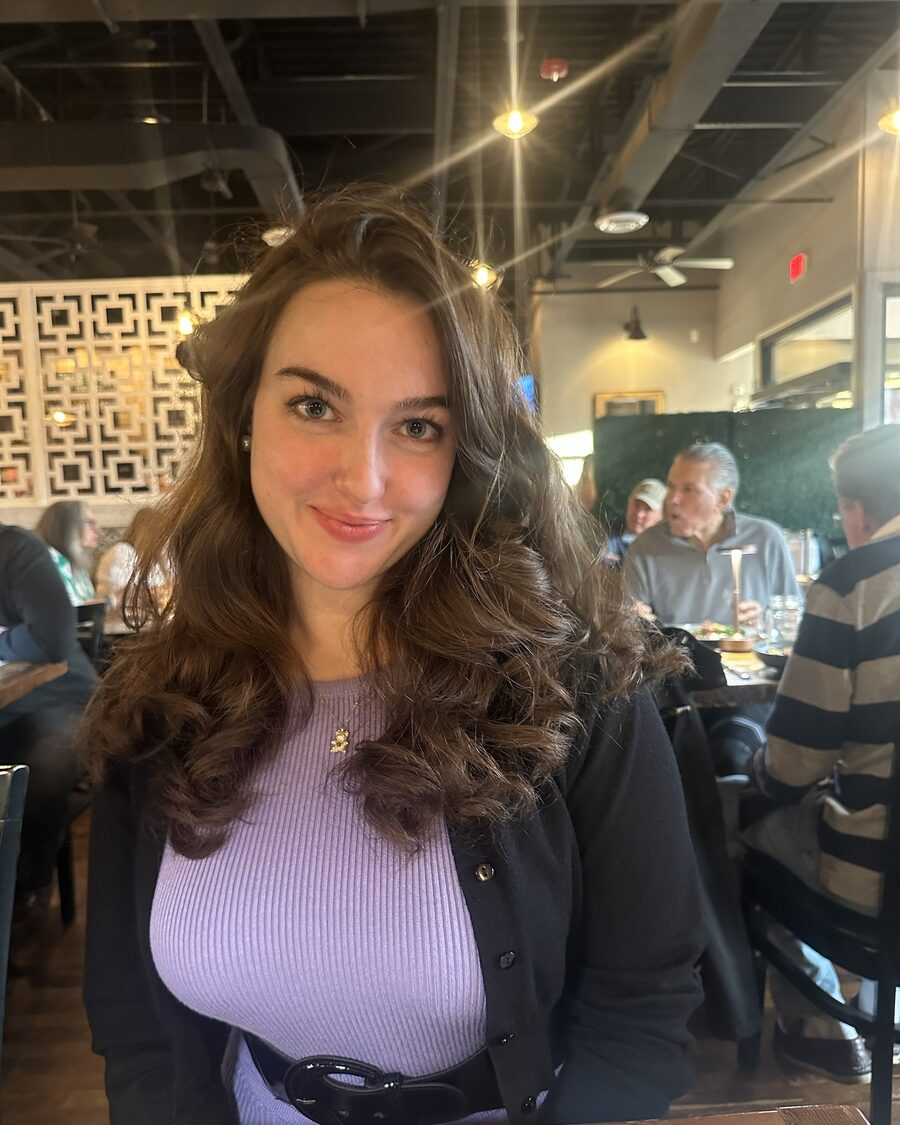
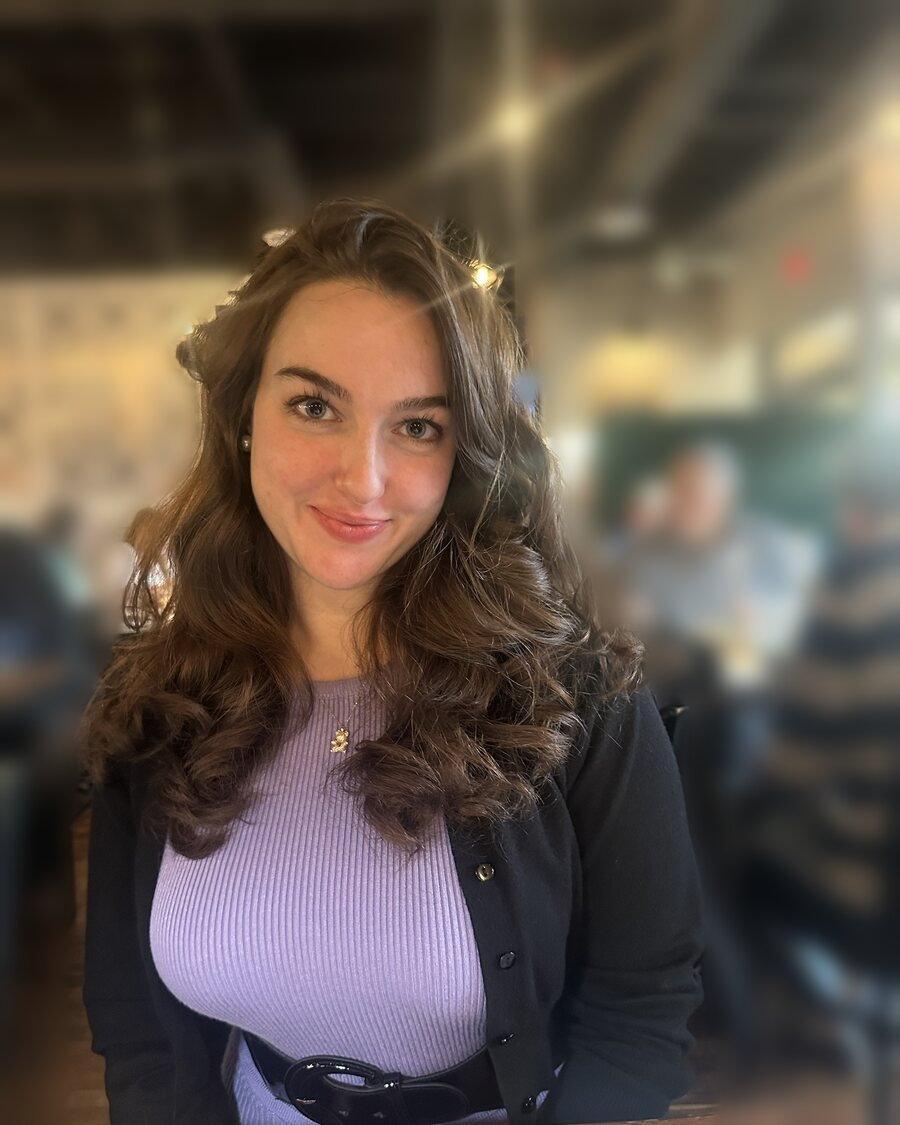
Add 100 body reminders, a plated chicken image and a portrait-blur photo
- Healthy Living: 100 natural reminders for the body in ten groups, with
  filters, a "give me one" button and one-tap adding to the daily checklist
- Chicken breast page shows a drawn plate of grilled chicken instead of
  Wikipedia's raw whole bird; images/foods/ now accepts your own photos
- About page: Amanda's photo now has a softly blurred background

Claude-Session: https://claude.ai/code/session_01ERn1Ugmrw1YbAuYjASvEeU

diff --git a/js/content.js b/js/content.js
@@ -150,3 +150,113 @@ const ARTICLES = [
     ]
   }
 ];
+
+// 100 natural reminders for the body, in ten groups of ten (shown on the Healthy Living page).
+const BODY_REMINDER_GROUPS = {
+  water: { label: "Water", icon: "drop" }, nourish: { label: "Nourish", icon: "apple" }, move: { label: "Move", icon: "sun" },
+  breathe: { label: "Breathe", icon: "leaf" }, rest: { label: "Rest & sleep", icon: "moon" }, outdoors: { label: "Sunlight & fresh air", icon: "sunrise" },
+  posture: { label: "Posture & stretching", icon: "sparkle" }, care: { label: "Body care", icon: "shield" }, mind: { label: "Mind & stress", icon: "heart" },
+  spirit: { label: "Gratitude & spirit", icon: "flower" }
+};
+const BODY_REMINDERS = [
+  ["water", "Drink a glass of water when you wake up — your body has gone hours without any."],
+  ["water", "Keep a water bottle where you can see it; you'll drink more without trying."],
+  ["water", "Pale yellow urine is a simple sign you're drinking enough."],
+  ["water", "Feeling tired or headachy? Try a glass of water first."],
+  ["water", "Drink a glass of water with every meal."],
+  ["water", "Add lemon, cucumber or mint if plain water feels boring."],
+  ["water", "Sip water before, during and after exercise."],
+  ["water", "Thirst can feel like hunger — have a drink before reaching for a snack."],
+  ["water", "Herbal teas and water-rich foods like watermelon and cucumber count toward your fluids."],
+  ["water", "Drink a little extra on hot days and when you're unwell."],
+  ["nourish", "Fill half your plate with vegetables and fruit."],
+  ["nourish", "Include a source of protein at every meal to stay full longer."],
+  ["nourish", "Eat the rainbow — different colors bring different nutrients."],
+  ["nourish", "Choose whole grains like oats and brown rice over refined ones most of the time."],
+  ["nourish", "Slow down and chew well — digestion starts in the mouth."],
+  ["nourish", "Stop eating when you're comfortably satisfied, not stuffed."],
+  ["nourish", "Keep fruit on the counter for an easy, naturally sweet snack."],
+  ["nourish", "Check labels for added sugar — less is better."],
+  ["nourish", "Add a small handful of nuts or seeds for healthy fats."],
+  ["nourish", "Cook one simple meal at home today."],
+  ["move", "Stand up and move for a few minutes every hour you sit."],
+  ["move", "Take a 10-minute walk after a meal."],
+  ["move", "Take the stairs when you can."],
+  ["move", "Aim for about 150 minutes of moderate activity each week — that's 30 minutes, 5 days."],
+  ["move", "Do some strength exercises twice a week — strong muscles support your bones and balance."],
+  ["move", "Dance to one song you love."],
+  ["move", "Walk while you talk on the phone."],
+  ["move", "Park a little farther away and enjoy the extra steps."],
+  ["move", "Play — chase the kids, throw a ball, garden. Movement doesn't have to be a workout."],
+  ["move", "Balance on one foot while you brush your teeth to build steadiness."],
+  ["breathe", "Take three slow, deep breaths before you answer a stressful message."],
+  ["breathe", "Breathe in through your nose — it warms and filters the air."],
+  ["breathe", "Let your out-breath be a little longer than your in-breath to help your body relax."],
+  ["breathe", "Notice if you're holding your breath — then let it go."],
+  ["breathe", "Try box breathing: in for 4, hold for 4, out for 4, hold for 4."],
+  ["breathe", "Open a window and let fresh air in for a few minutes."],
+  ["breathe", "Relax your jaw and drop your shoulders as you breathe out."],
+  ["breathe", "Take a one-minute breathing break between tasks."],
+  ["breathe", "Sing or hum — it naturally slows your breathing."],
+  ["breathe", "Breathe slowly and deeply as you lie down to sleep."],
+  ["rest", "Go to bed and wake up at about the same time every day, even on weekends."],
+  ["rest", "Aim for 7–9 hours of sleep most nights."],
+  ["rest", "Put screens away 30–60 minutes before bed."],
+  ["rest", "Keep your bedroom cool, dark and quiet."],
+  ["rest", "Enjoy caffeine early in the day, not in the afternoon or evening."],
+  ["rest", "A short nap of 20 minutes or less can refresh you without spoiling night sleep."],
+  ["rest", "Write tomorrow's to-do list before bed so your mind can rest."],
+  ["rest", "A warm shower or a calming cup of tea can signal it's time to wind down."],
+  ["rest", "Rest isn't laziness — your body repairs itself while you sleep."],
+  ["rest", "Set aside one day each week to truly rest, as God rested on the seventh day."],
+  ["outdoors", "Step outside in the morning light to help set your body clock."],
+  ["outdoors", "Spend a few minutes in nature — trees, gardens and water can calm the mind."],
+  ["outdoors", "Get a little sunshine, and protect your skin with sunscreen when you're out longer."],
+  ["outdoors", "Eat lunch outside when the weather allows."],
+  ["outdoors", "Open the curtains as soon as you wake up."],
+  ["outdoors", "Take a walk in a park, along a trail or by the water this week."],
+  ["outdoors", "Grow something — a pot of herbs on the windowsill counts."],
+  ["outdoors", "Look up and notice the sky today."],
+  ["outdoors", "Dress for the weather and get outside anyway."],
+  ["outdoors", "Bring a few plants indoors to brighten your space."],
+  ["posture", "Sit back in your chair with your feet flat on the floor."],
+  ["posture", "Raise your screen to eye level to spare your neck."],
+  ["posture", "Roll your shoulders back and down a few times."],
+  ["posture", "Gently tilt your head side to side to stretch your neck."],
+  ["posture", "Stand tall — imagine a string gently lifting the top of your head."],
+  ["posture", "Stretch your hands and wrists if you type or use your phone a lot."],
+  ["posture", "Bend your knees, not your back, when you lift something."],
+  ["posture", "Stretch gently for a few minutes each morning to wake up your muscles."],
+  ["posture", "Change positions often — the best posture is your next one."],
+  ["posture", "Carry bags on both shoulders, or switch sides often."],
+  ["care", "Every 20 minutes of screen time, look at something 20 feet away for 20 seconds."],
+  ["care", "Blink often when you're looking at screens."],
+  ["care", "Wear sunglasses in bright sun to protect your eyes."],
+  ["care", "Moisturize right after bathing, while your skin is still a little damp."],
+  ["care", "Wash your hands with soap for 20 seconds."],
+  ["care", "Brush your teeth twice a day and floss once a day."],
+  ["care", "Keep your headphone volume at a comfortable level."],
+  ["care", "Check your skin for new or changing moles."],
+  ["care", "Wear sunscreen on your face every day."],
+  ["care", "Keep up with checkups — your doctor, dentist and eye doctor."],
+  ["mind", "Do one thing at a time."],
+  ["mind", "Take a short break when you feel overwhelmed."],
+  ["mind", "It's okay to say no to something that drains you."],
+  ["mind", "Spend time with people who encourage you."],
+  ["mind", "Laugh today — a joyful heart is good medicine (Proverbs 17:22)."],
+  ["mind", "Put your phone in another room for an hour."],
+  ["mind", "Write down what's worrying you, pray over it, then set it aside."],
+  ["mind", "Ask for help when you need it — you're not alone. In the U.S., call or text 988 any time."],
+  ["mind", "Celebrate your small wins."],
+  ["mind", "Speak to yourself as kindly as you would to a friend."],
+  ["spirit", "Start the day by thanking God for three things."],
+  ["spirit", "Spend a few quiet minutes in prayer this morning."],
+  ["spirit", "Remember: you are fearfully and wonderfully made (Psalm 139:14)."],
+  ["spirit", "Give thanks before you eat."],
+  ["spirit", "Read a short passage of Scripture today."],
+  ["spirit", "Do one kind thing for someone else."],
+  ["spirit", "Write a thank-you note to someone who has blessed you."],
+  ["spirit", "Forgive someone — and let your heart rest."],
+  ["spirit", "Sing a hymn or a worship song."],
+  ["spirit", "End the day by naming one good thing that happened."]
+];

diff --git a/js/pages.js b/js/pages.js
@@ -433,14 +433,15 @@ function initLiving() {
 
   // Reminder of the moment
   const tipText = $("#tip-text");
-  let tip = Math.floor(Math.random() * REMINDERS.length);
+  const TIPS = [...REMINDERS, ...BODY_REMINDERS.map((r) => r[1])];
+  let tip = Math.floor(Math.random() * TIPS.length);
   const showTip = () => {
     tipText.classList.remove("fade");
     void tipText.offsetWidth;
-    tipText.textContent = REMINDERS[tip];
+    tipText.textContent = TIPS[tip];
     tipText.classList.add("fade");
   };
-  $("#next-tip").addEventListener("click", () => { tip = (tip + 1) % REMINDERS.length; showTip(); });
+  $("#next-tip").addEventListener("click", () => { tip = (tip + 1) % TIPS.length; showTip(); });
   showTip();
 
   // Checklist
@@ -527,6 +528,37 @@ function initLiving() {
     </div>`).join("");
 
   $("#living-devo").innerHTML = devotionalCard(thisWeeksDevotional(), true);
+
+  // 100 natural reminders for the body
+  let group = "all";
+  const bodyList = $("#body-list");
+  $("#body-chips").innerHTML = [["all", "All 100"], ...Object.entries(BODY_REMINDER_GROUPS).map(([k, g]) => [k, g.label])].map(([k, l]) => `<button class="chip" data-g="${k}">${l}</button>`).join("");
+  function renderBody() {
+    $("#body-chips").querySelectorAll(".chip").forEach((c) => c.classList.toggle("active", c.dataset.g === group));
+    bodyList.innerHTML = BODY_REMINDERS.map(([g, text], i) => ({ g, text, i })).filter((r) => group === "all" || r.g === group).map(({ g, text, i }) => `
+      <li class="body-reminder" id="reminder-${i + 1}">
+        <span class="br-num">${i + 1}</span>
+        <span class="br-icon">${icon(BODY_REMINDER_GROUPS[g].icon)}</span>
+        <p><em>${BODY_REMINDER_GROUPS[g].label}</em>${text}</p>
+        <button class="br-add${habits.includes(text) ? " added" : ""}" data-add="${i}" aria-label="Add to my daily checklist">${habits.includes(text) ? `${icon("check")} Added` : "+ Checklist"}</button>
+      </li>`).join("");
+  }
+  $("#body-chips").addEventListener("click", (e) => { const c = e.target.closest("[data-g]"); if (c) { group = c.dataset.g; renderBody(); } });
+  bodyList.addEventListener("click", (e) => {
+    const b = e.target.closest("[data-add]"); if (!b) return;
+    const text = BODY_REMINDERS[+b.dataset.add][1];
+    if (!habits.includes(text)) { habits.push(text); save(); renderChecklist(); toast("Added to your daily checklist."); }
+    renderBody();
+  });
+  $("#random-reminder").addEventListener("click", () => {
+    group = "all"; renderBody();
+    const i = Math.floor(Math.random() * BODY_REMINDERS.length);
+    const el = $(`#reminder-${i + 1}`);
+    el.scrollIntoView({ behavior: "smooth", block: "center" });
+    list.querySelectorAll(".body-reminder.spot").forEach((x) => x.classList.remove("spot"));
+    el.classList.add("spot");
+  });
+  renderBody();
 
   // Seasons
   const month = new Date().getMonth();

diff --git a/css/styles.css b/css/styles.css
@@ -1290,3 +1290,19 @@ body[data-page="es"] .note-card .btn { margin-top: 6px; color: var(--cream); }
   .start-grid-4 .start-card { flex-direction: row; align-items: center; padding: 18px 44px 18px 18px; }
   .start-grid-4 .start-card > .icon { top: 50%; transform: translateY(-50%); }
 }
+
+/* ---------- 100 natural reminders for the body ---------- */
+.body-reminders { list-style: none; padding: 0; margin: 0; display: grid; grid-template-columns: repeat(2, minmax(0, 1fr)); gap: 12px; }
+.body-reminder { display: flex; align-items: center; gap: 14px; padding: 14px 16px; background: var(--white); border: 1px solid var(--line); border-radius: var(--radius); min-width: 0; transition: border-color 0.3s, box-shadow 0.3s; }
+.body-reminder.spot { border-color: var(--clay); box-shadow: 0 0 0 3px rgba(181, 101, 74, 0.18); }
+.br-num { flex: none; width: 30px; font-family: var(--serif); font-size: 1.3rem; font-weight: 600; color: var(--clay); text-align: center; }
+.br-icon { flex: none; width: 38px; height: 38px; border-radius: 50%; background: var(--sage-soft); color: var(--forest); display: grid; place-items: center; }
+.br-icon .icon { width: 18px; height: 18px; }
+.body-reminder p { flex: 1; margin: 0; line-height: 1.45; min-width: 0; }
+.body-reminder p em { display: block; font-style: normal; font-size: 0.68rem; letter-spacing: 0.14em; text-transform: uppercase; color: var(--muted); margin-bottom: 2px; }
+.br-add { flex: none; display: inline-flex; align-items: center; gap: 4px; border: 1px solid var(--line); background: var(--paper); color: var(--forest); border-radius: 999px; padding: 6px 12px; font-size: 0.78rem; cursor: pointer; white-space: nowrap; }
+.br-add:hover { border-color: var(--forest); }
+.br-add.added { background: var(--forest); border-color: var(--forest); color: var(--cream); }
+.br-add .icon { width: 14px; height: 14px; }
+@media (max-width: 900px) { .body-reminders { grid-template-columns: 1fr; } }
+@media (max-width: 480px) { .br-num { width: 22px; font-size: 1.1rem; } .br-icon { display: none; } .body-reminder { gap: 10px; padding: 12px; } }

diff --git a/js/photos.js b/js/photos.js
@@ -4,13 +4,15 @@
 // the drawn illustration. Once the photo list arrives, a photo is laid over the illustration;
 // if a photo can't be found or the request fails, the illustration simply stays.
 //
-// To use your own photo, the easy way: put it in images/herbs/ or images/fruits/, named after the
-// herb or fruit (images/herbs/chamomile.jpg, images/fruits/apple.jpg), then run `node scripts/build.js`.
+// To use your own photo, the easy way: put it in images/herbs/, images/fruits/ or images/foods/, named after the
+// herb, fruit or food (images/herbs/chamomile.jpg, images/fruits/apple.jpg, images/foods/eggs.jpg), then run `node scripts/build.js`.
 // Or add it to PHOTO_OVERRIDES below by hand to choose your own credit line, e.g.
 //   chamomile: { src: "images/chamomile.jpg", credit: "Photo by Jane Doe" }
 
-const PHOTO_OVERRIDES = Object.assign({}, typeof MY_PHOTOS !== "undefined" ? MY_PHOTOS : {}, {
-});
+const PHOTO_OVERRIDES = Object.assign({
+  // A cooked, plated meal instead of Wikipedia's raw whole chicken.
+  "food:chicken-breast": { src: "images/foods/chicken-breast.svg", credit: "Illustration: Beauty & Praise" }
+}, typeof MY_PHOTOS !== "undefined" ? MY_PHOTOS : {});
 
 // Wikipedia article titles where the herb's common or Latin name isn't the best match.
 const WIKI_TITLES = {

diff --git a/scripts/build.js b/scripts/build.js
@@ -69,12 +69,12 @@ const breadcrumb = (section, sectionUrl, name, url) => ({
 });
 
 // ---------- Your own photos ----------
-// Drop a photo named after an herb or fruit into images/herbs/ or images/fruits/
-// (e.g. images/herbs/chamomile.jpg, images/fruits/apple.jpg) and it replaces the Wikipedia photo.
-const PHOTO_EXT = /\.(jpe?g|png|webp|avif)$/i;
+// Drop a photo named after an herb, fruit or food into images/herbs/, images/fruits/ or images/foods/
+// (e.g. images/herbs/chamomile.jpg, images/fruits/apple.jpg, images/foods/chicken-breast.jpg) and it replaces the Wikipedia photo.
+const PHOTO_EXT = /\.(jpe?g|png|webp|avif)$/i; // .svg drawings are left for photos.js overrides
 const myPhotos = {};
 const unknownPhotos = [];
-for (const [dir, list, prefix] of [["herbs", HERBS, ""], ["fruits", FRUITS, "fruit:"]]) {
+for (const [dir, list, prefix] of [["herbs", HERBS, ""], ["fruits", FRUITS, "fruit:"], ["foods", FOODS, "food:"]]) {
   const folder = path.join(root, "images", dir);
   fs.mkdirSync(folder, { recursive: true });
   for (const file of fs.readdirSync(folder).filter((f) => PHOTO_EXT.test(f)).sort()) {

diff --git a/reminders.html b/reminders.html
@@ -65,7 +65,18 @@
       </div>
     </section>
 
-    <section class="section section-tint" id="rhythm-section">
+    <section class="section section-tint" id="body-reminders">
+      <div class="container">
+        <div class="section-head">
+          <div><p class="eyebrow">Small things, done faithfully</p><h2>100 Natural Reminders for Your Body</h2><p class="muted section-sub">Simple, everyday ways to care for the body God gave you. Tap <strong>+ Checklist</strong> to add any reminder to your daily checklist.</p></div>
+          <button class="btn btn-outline" id="random-reminder">Give me one</button>
+        </div>
+        <div class="chips" id="body-chips"></div>
+        <ol class="body-reminders" id="body-list"></ol>
+      </div>
+    </section>
+
+    <section class="section" id="rhythm-section">
       <div class="container">
         <div class="section-head center"><div><p class="eyebrow">From sunrise to rest</p><h2>Your daily rhythm</h2></div></div>
         <div class="rhythm-grid" id="rhythm"></div>

diff --git a/js/layout.js b/js/layout.js
@@ -229,6 +229,7 @@ function siteMenu() {
       { href: "journal.html", label: "Journal", desc: "Articles & seasonal tips" },
       { href: "devotional.html", label: "Weekly Devotional", desc: "A verse, prayer & habit each week" },
       { href: "reminders.html", label: "Healthy Living", desc: "Daily checklist, water & reminders" },
+      { href: "reminders.html#body-reminders", label: "100 Body Reminders", desc: "Simple ways to care for your body" },
       { href: "myplan.html", label: "My Plan", desc: "Your saved items, plan & checklist" },
       { href: "quiz.html", label: "Knowledge Quiz", desc: "Test what you know" },
       { href: "about.html", label: "About Us", desc: "Our story & contact" }

diff --git a/README.md b/README.md
@@ -27,7 +27,7 @@ A food-first wellness website: real food, natural remedies, healthy habits and h
 | Recipe pages | `recipes/<id>.html` | Ingredients checklist, numbered steps, tips, storage, safety, links to the herbs, fruits and guide; printable. Herb, fruit and guide pages show matching recipes |
 | Weekly Devotional | `devotional.html` | A 12-week series (verse, reflection, prayer, habit, herb/fruit/recipe of the week) that changes every Monday, plus a weekly calendar reminder (.ics) for phones. This week's devotional also shows on Healthy Living and My Plan |
 | Español | `es/index.html`, `es/seguridad.html` | Hand-written Spanish home page and safety guide (pregnancy, breastfeeding, children, medicines, Poison Control), plus a "Traducir todo el sitio" button that opens the rest of the site in Google Translate (machine translation) |
-| Healthy Living | `reminders.html` | Reminders, daily checklist, water tracker, daily rhythm, seasons |
+| Healthy Living | `reminders.html` | 100 natural reminders for the body (`reminders.html#body-reminders`, edit in `js/content.js`), plus | Reminders, daily checklist, water tracker, daily rhythm, seasons |
 | Journal | `journal.html` | Articles (`journal.html?a=<id>`) |
 | About | `about.html` | Story, values, FAQ, contact form |
 | Legal | `privacy.html`, `terms.html`, `disclaimer.html` | Privacy policy, terms of use, medical disclaimer (templates — have them reviewed for your situation) |
@@ -77,7 +77,7 @@ If you sell products or use affiliate links, keep claims educational: in the U.S
 - `js/layout.js` — site name, menu, header, footer, form and shop settings. Replace the `#` social links in the footer with your own profiles.
 
 ## Photos
-Herb and fruit photos load in the visitor's browser from Wikipedia / Wikimedia Commons (free-licensed images); each page credits the photographer and license. If a photo can't load, a drawn illustration is shown instead. **To use your own photos:** put them in `images/herbs/` or `images/fruits/`, named exactly like the page address — e.g. `images/herbs/chamomile.jpg` for `herbs/chamomile.html`, `images/fruits/apple.jpg` for `fruits/apple.html` (.jpg, .png or .webp; about 1200 px wide is plenty) — then run `node scripts/build.js`. Your photo replaces the Wikipedia one everywhere on the site. To choose a different credit line, add it to `PHOTO_OVERRIDES` in `js/photos.js` instead (fruits use keys like `"fruit:apple"`). If a Wikipedia photo is a poor match, change the article in `WIKI_TITLES` or `FRUIT_WIKI_TITLES` in the same file.
+Herb and fruit photos load in the visitor's browser from Wikipedia / Wikimedia Commons (free-licensed images); each page credits the photographer and license. If a photo can't load, a drawn illustration is shown instead. **To use your own photos:** put them in `images/herbs/`, `images/fruits/` or `images/foods/`, named exactly like the page address — e.g. `images/herbs/chamomile.jpg` for `herbs/chamomile.html`, `images/fruits/apple.jpg` for `fruits/apple.html` (.jpg, .png or .webp; about 1200 px wide is plenty) — then run `node scripts/build.js`. Your photo replaces the Wikipedia one everywhere on the site. To choose a different credit line, add it to `PHOTO_OVERRIDES` in `js/photos.js` instead (fruits use keys like `"fruit:apple"`). If a Wikipedia photo is a poor match, change the article in `WIKI_TITLES` or `FRUIT_WIKI_TITLES` in the same file.
 
 ## Wording
 Keep wellness language conservative: foods, remedies and herbs "may support", "may help" or "have been studied for" — never "cures" or "treats". Food and remedy pages link to their sources (USDA FoodData Central, NIH fact sheets, FDA, CDC); please spot-check those links after launch.
